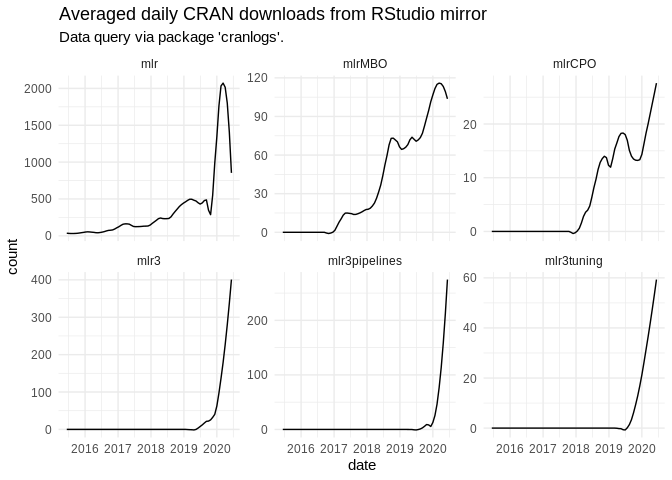
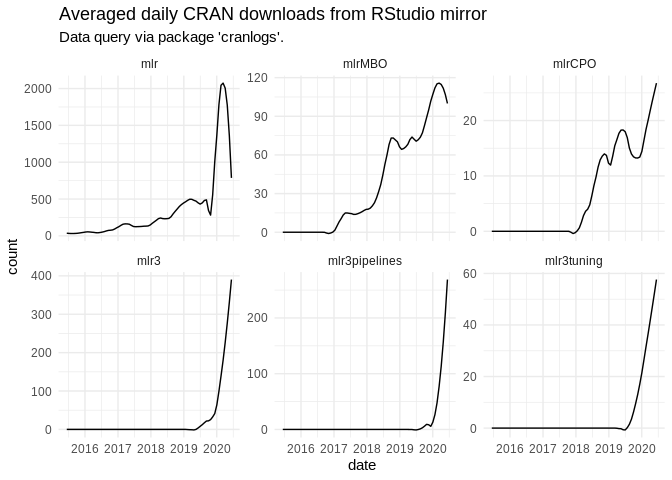
Deploy from Travis build 226 [ci skip]
Build URL: https://travis-ci.org/mlr-org/mlrcranlog/builds/697857422
Commit: 4a2c5a604eb0f0e8009e7fc999ed91fc6cdd55aa

diff --git a/README.md b/README.md
@@ -9,7 +9,7 @@
 
 Created on
 
-    ## [1] "2020-06-12"
+    ## [1] "2020-06-13"
 
 <details>
 
